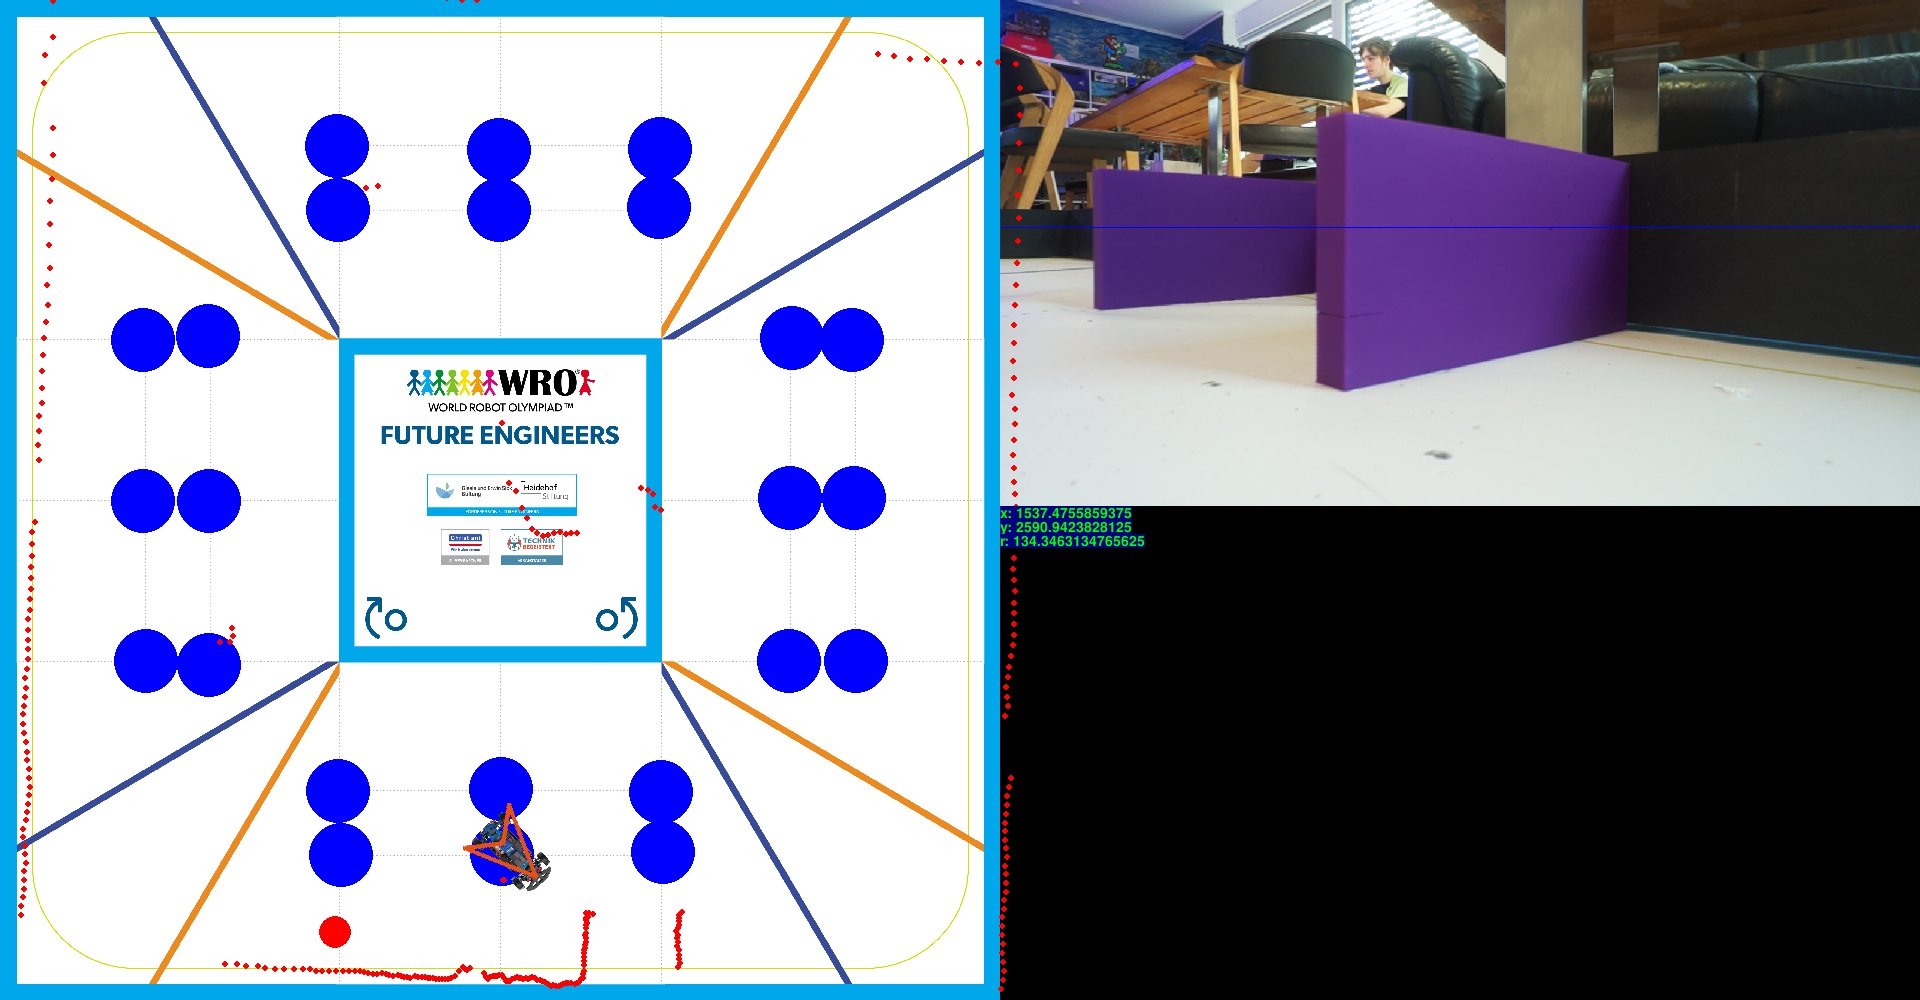
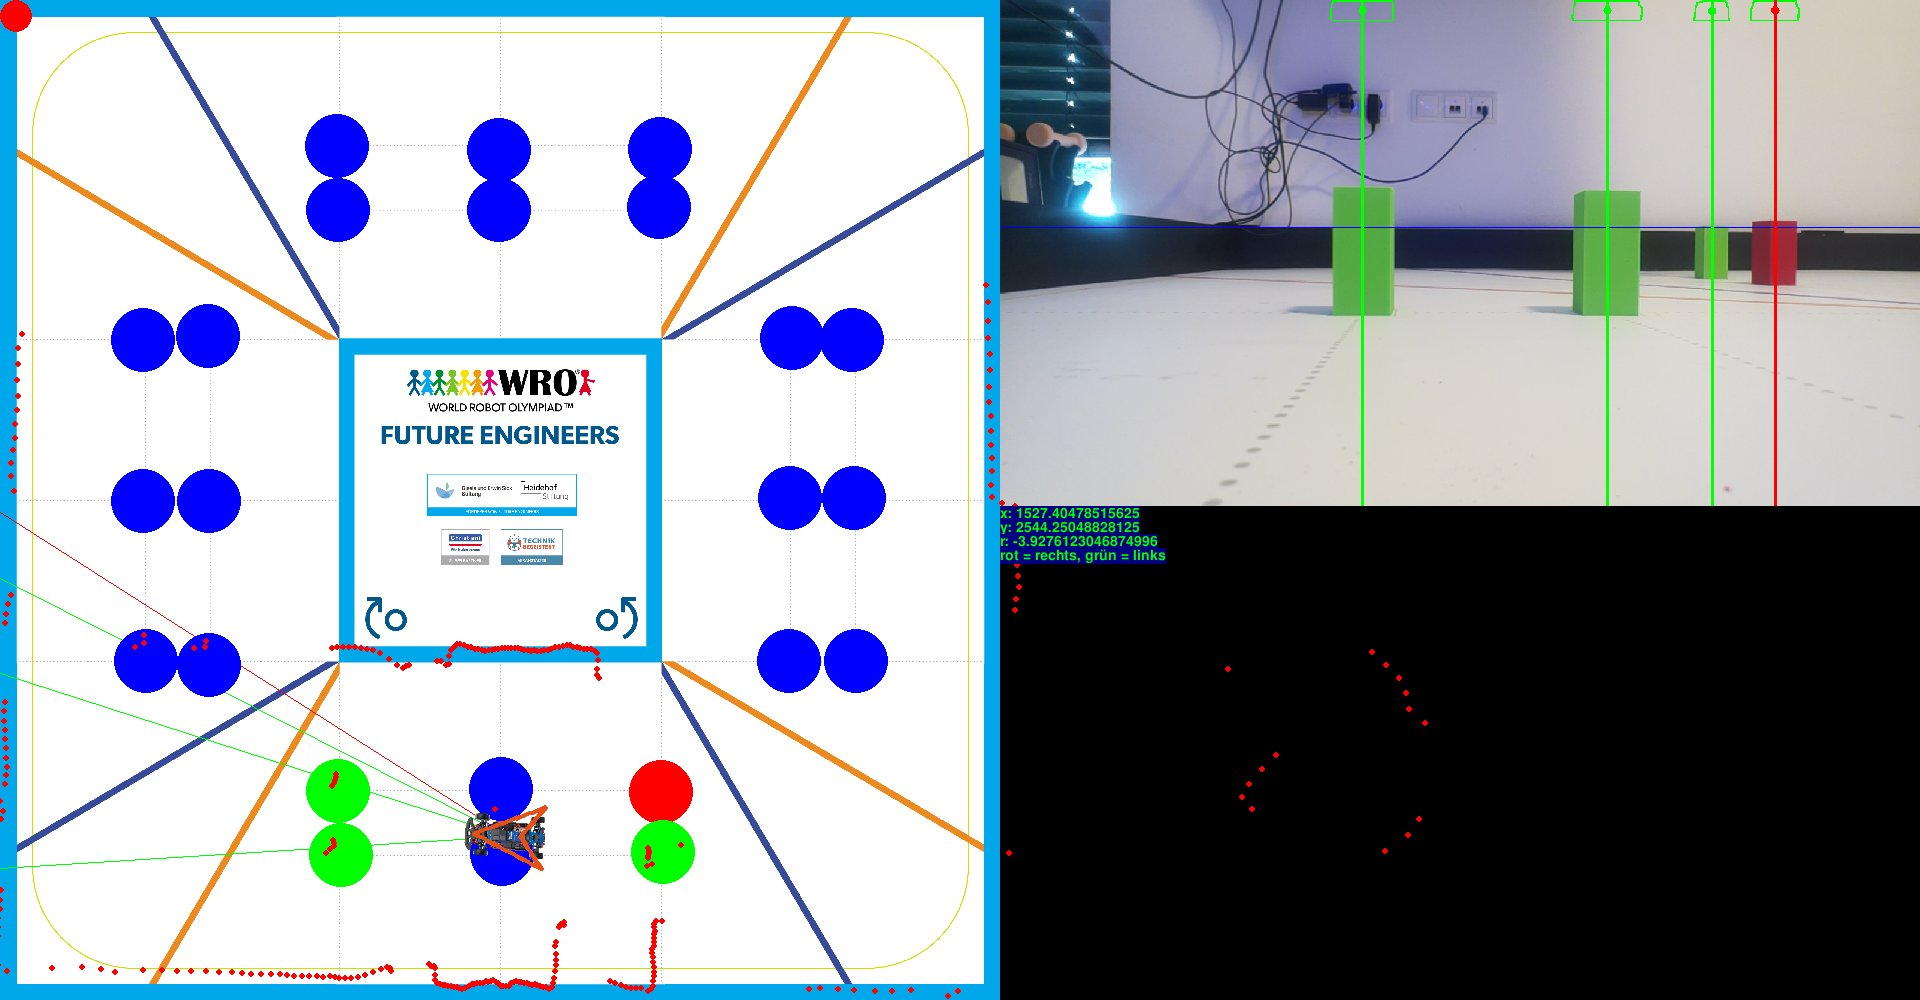
detection run

diff --git a/src/main.py b/src/main.py
@@ -41,8 +41,8 @@ def main():
     robot = Robot(matScale)
     pygame.init()
     info = 1
-    wx = 3100
-    wy = 3100
+    wx = 1100
+    wy = 1100
     placing = 0
     playmat = Playmat(matScale, wx, wy)
     os.environ['SDL_VIDEO_WINDOW_POS'] = "%d,%d" % (0,0)
@@ -87,12 +87,13 @@ def main():
                     slam.lidar.disconnect()
                 
                 if event.key == pygame.K_f:
+                    print(math.floor(pygame.mouse.get_pos()[0] / matScale), math.floor(pygame.mouse.get_pos()[1] / matScale))
+                if event.key == pygame.K_r:
                     slam.reposition()
-                    #print(math.floor(pygame.mouse.get_pos()[0] / matScale) - 50, math.floor(pygame.mouse.get_pos()[1] / matScale) - 50)
                 if event.key == pygame.K_g:
-                    print("orders.append(Order(x="+str(math.floor(pygame.mouse.get_pos()[0] / matScale) - 50)+", y="+str(math.floor(pygame.mouse.get_pos()[1] / matScale) - 50)+",speed=0.5,brake=1,type=Order.DESTINATION))")
+                    print("orders.append(Order(x="+str(math.floor(pygame.mouse.get_pos()[0] / matScale))+", y="+str(math.floor(pygame.mouse.get_pos()[1] / matScale))+",speed=0.5,brake=1,type=Order.DESTINATION))")
                 if event.key == pygame.K_t:
-                    orders.append(Order(x=(pygame.mouse.get_pos()[0] / matScale) - 50, y=(pygame.mouse.get_pos()[1] / matScale) - 50, speed=0.5, brake=1, type=Order.DESTINATION))
+                    orders.append(Order(x=pygame.mouse.get_pos()[0] / matScale, y=pygame.mouse.get_pos()[1] / matScale, speed=0.5, brake=1, type=Order.DESTINATION))
                 if event.key == pygame.K_c:
                     orders.clear()
 
@@ -110,7 +111,7 @@ def main():
         playmat.draw(screen, info, camera, robot)
         robot.draw(screen, playmat.matScale, slam.scan, slam)
         if info == 1:
-            playmat.Infos(screen, robot, slam)
+            playmat.Infos(screen, robot, slam, matScale)
         if takePicture:
             takePicture = False
             fileName="capture/screen"+str(pictureNum)+".jpg"
@@ -152,21 +153,26 @@ def commandLoop():
     # orders.append(Order(x=2500,y=2200,speed=1,brake=0,type=Order.DESTINATION))
     # orders.append(Order(x=1479,y=2314,speed=1,brake=0,type=Order.DESTINATION))
 
-    input("Press Enter to start")
+    input("Press Enter to start\n")
     orders.append(Order(steer=-90, dist=170, speed=0.2, brake=1, type=Order.KURVE))
     orders.append(Order(steer=0, dist=150, speed=0.2, brake=1, type=Order.KURVE))
     orders.append(Order(steer=90, dist=170, speed=0.2, brake=1, type=Order.KURVE))
-    orders.append(Order(x=1485, y=2614, speed=0.5, brake=1, type=Order.DESTINATION))
     waitCompleteOrders()
     time.sleep(0.5)
     orders.append(Order(toScan=[0, 1, 2, 3, 4, 5], speed=0.2, brake=1, type=Order.SCAN))
+    input("Capture 1\n")
 
-    orders.append(Order(x=991, y=2841, speed=0.5, brake=1, type=Order.DESTINATION))
-    orders.append(Order(x=391, y=2838, speed=0.5, brake=1, type=Order.DESTINATION))
-    orders.append(Order(x=391, y=2517, speed=0.5, brake=1, type=Order.DESTINATION))
+    # orders.append(Order(x=1000, y=2200,speed=0.5,brake=1,type=Order.DESTINATION))
+    # orders.append(Order(x=700, y=2700,speed=0.5,brake=1,type=Order.DESTINATION))
+    
+    orders.append(Order(x=997, y=2726,speed=0.5,brake=1,type=Order.DESTINATION))
+    orders.append(Order(x=573, y=2614,speed=0.5,brake=1,type=Order.DESTINATION))
+    
+    orders.append(Order(zielwinkel=-90, speed=0.2, brake=1, type=Order.WINKEL))
     waitCompleteOrders()
     time.sleep(0.5)
     orders.append(Order(toScan=[6, 7, 8, 9, 10, 11], speed=0.2, brake=1, type=Order.SCAN))
+    input("Capture 2\n")
 
     orders.append(Order(x=823, y=2008, speed=0.5, brake=0, type=Order.DESTINATION))
     orders.append(Order(x=829, y=988, speed=0.5, brake=0, type=Order.DESTINATION))
@@ -175,6 +181,7 @@ def commandLoop():
     waitCompleteOrders()
     time.sleep(0.5)
     orders.append(Order(toScan=[12, 13, 14, 15, 16, 17], speed=0.2, brake=1, type=Order.SCAN))
+    input("Capture 3\n")
 
 def controlLoop(robot, camera):
     driveBase = DriveBase(slam, kit)

diff --git a/src/drawBoard.py b/src/drawBoard.py
@@ -88,6 +88,7 @@ class Playmat:
         if self.bgImg.get_height() != screenys:
             screenxs = screenys / self.wy * self.wx
             self.matScale = screenxs / self.wy
+            print("***************************************************\nMatScale: ", self.matScale)
             self.bgImg = pygame.transform.scale(self.bgImgFull, (screenxs, screenys))
         screen.blit(self.bgImg, (0, 0))
         
@@ -114,17 +115,22 @@ class Playmat:
         screen.blit(frame, (self.wx * self.matScale, 0))
 
 
-    def Infos(self,screen,robot,slam):
+    def Infos(self,screen,robot,slam,matScale):
         green = (0, 255, 0)
         blue = (0, 0, 128)
-        self.font = pygame.font.Font('freesansbold.ttf', 14)
-        for i in range(3):
+        self.font = pygame.font.Font('freesansbold.ttf',20)
+        for i in range(5):
             if i == 0:
                 text = self.font.render('x: ' + str(robot.xpos), True, green, blue)
             if i == 1:
                 text = self.font.render('y: ' + str(robot.ypos), True, green, blue)
             if i == 2:
                 text = self.font.render('r: ' + str(robot.angle), True, green, blue)
+            if i == 3:
+                text = self.font.render("matscale: "+str(matScale), True, green, blue)
+                # text = self.font.render("rot = rechts, grün = links", True, green, blue)
+            if i == 4:
+                text = self.font.render(str(math.floor(pygame.mouse.get_pos()[0] / matScale)) + " " + str(math.floor(pygame.mouse.get_pos()[1] / matScale)), True, green, blue) 
             # if i == 3:
             #     text = self.font.render('speed x: ' + str(speed.x), True, green, blue)
             # if i == 4:
@@ -133,4 +139,4 @@ class Playmat:
             #     text = self.font.render('speed max x: ' + str(speedMax[0]), True, green, blue)
             # if i == 6:
             #     text = self.font.render('speed max y: ' + str(speedMax[1]), True, green, blue)
-            screen.blit(text, (self.wx * self.matScale,(i * 14) + ((screen.get_width() - self.wx * self.matScale) * 0.55078125)))
+            screen.blit(text, (self.wx * self.matScale,(i * 20) + ((screen.get_width() - self.wx * self.matScale) * 0.55078125)))

diff --git a/src/slam.py b/src/slam.py
@@ -74,10 +74,10 @@ class Slam:
 
         script_dir = os.path.abspath(os.path.dirname(__file__))
         lib_path = os.path.join(script_dir, "sg.so")
-
+        
         self.lidar = CDLL(lib_path)
         self.lidar.initLidar()
-
+        
         arr = [1]
         self.scan = (c_int * 361)(*arr)
 
@@ -185,8 +185,6 @@ class Slam:
 
         # print("Euler angle: {}".format(sensor.euler[0]))
     def hindernisseErkennung(self, scan, toScan, camera):
-
-        
         camera.captureImage()
         
         xposes = []
@@ -240,8 +238,8 @@ class Slam:
         average = average / scans
         print("scanAngle:", scanAngle, "average:", average, "average3:", 3000 - average)
         return average
-    
-    
+
+
     def reposition(self):
         
         #print("X:", self.xpos, "Y:", self.ypos, "Angle:", self.angle, "average:", average, "average3:", 3000 - average)
